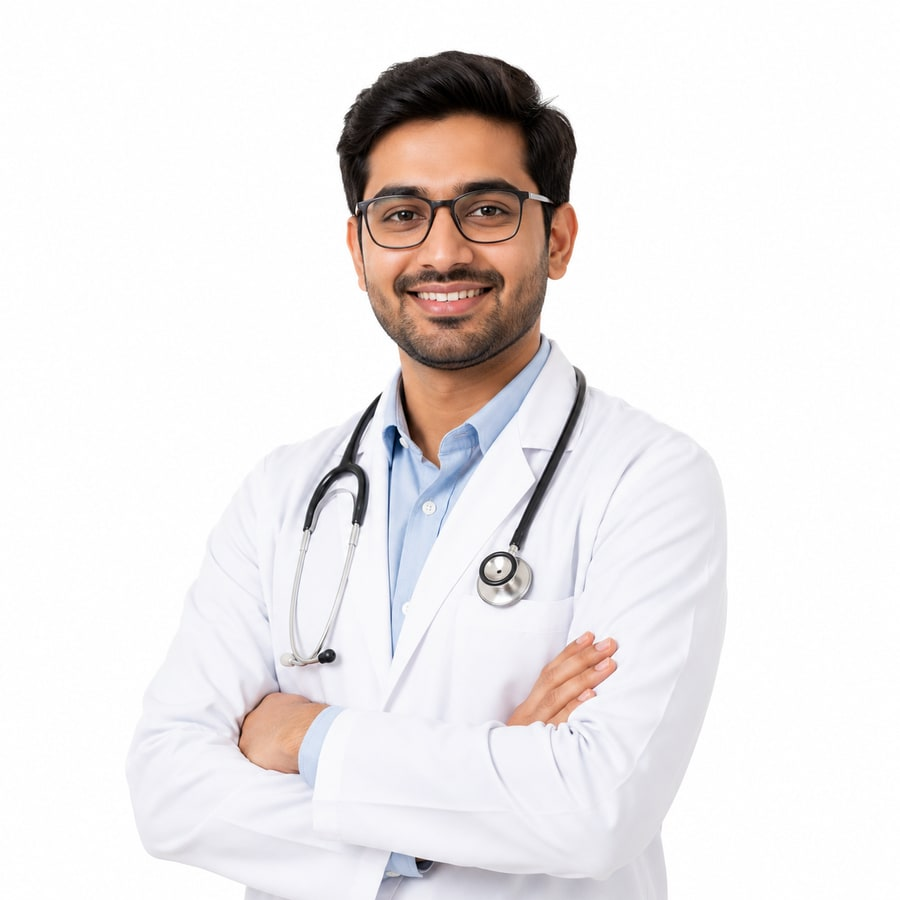
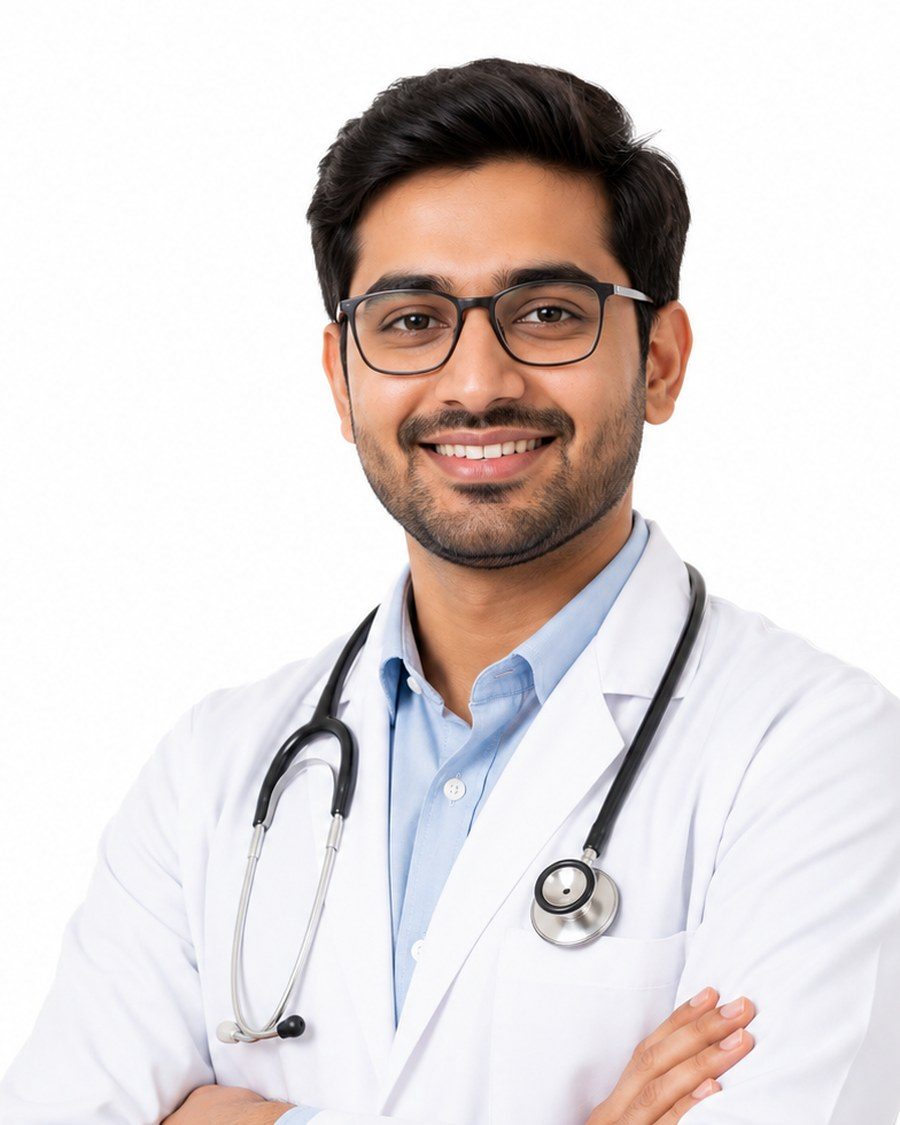
Reframe the first portrait so it fits the card
The supplied file was a square cut-out with wide white margins, so filling
the 4:5 slot from it left him small and floating while the other two filled
their frames. Cropped to the subject, head to mid-chest, matching theirs.

All three are now exactly 900 x 1125, so the slot crops none of them.

diff --git a/src/components/MeetDoctors.tsx b/src/components/MeetDoctors.tsx
@@ -15,6 +15,10 @@ import Reveal from "./Reveal";
  * a 4:5 portrait dropped in public/ — and the illustration gives way to the
  * photograph with no other change.
  *
+ * Supply portraits at 4:5 (900 x 1125 is what the current three use). The slot
+ * is 4:5 and covers, so anything squarer loses its sides and anything taller
+ * loses its feet — crop to the subject before dropping the file in, not here.
+ *
  * NOTE: only Dr Sourab Hegde is real. The other two entries in content.ts are
  * placeholders and must be replaced with the clinic's actual consultants, or
  * removed, before this goes live.
